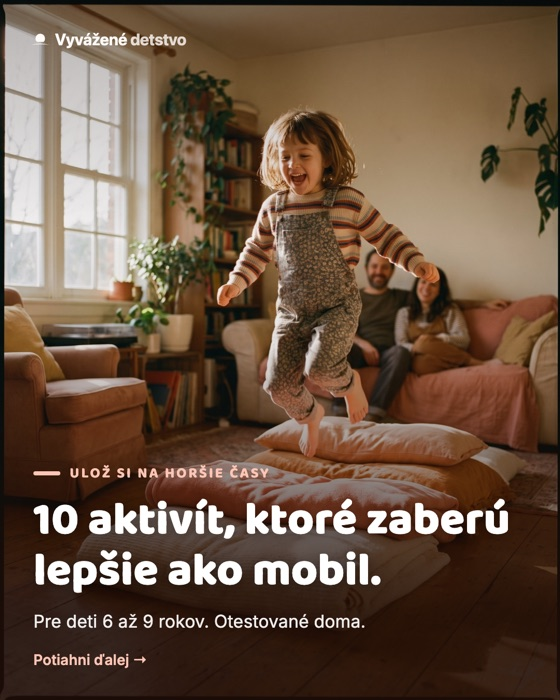
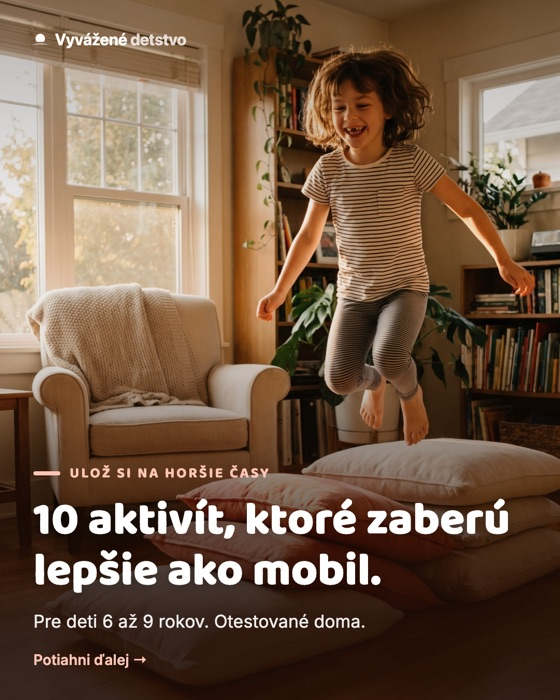
Fotky zladene s vekom dietata v texte: posty 5, 6, 15

diff --git a/index.html b/index.html
@@ -178,7 +178,7 @@ letter-spacing:.09em;color:var(--coral);margin-bottom:8px;}
       <div class="chips"><span class="chip" style="background:#4CAF7C">OBJAVOVANIE</span><span class="chip chip-cta">CTA: Ulož si</span></div>
     </div>
   </div>
-  <div class="cover-pozn">📷 Cover: AI foto, dieťa (7 r.) skáče cez vankúše v obývačke, smiech</div>
+  <div class="cover-pozn">📷 Cover: AI foto, dieťa (8 r.) skáče cez vankúše v obývačke, smiech</div>
   
   <div class="slides slides-img"><a href="zasobnik-assets/05-1.jpg" target="_blank"><img src="zasobnik-assets/05-1.jpg" loading="lazy" alt=""></a><a href="zasobnik-assets/05-2.jpg" target="_blank"><img src="zasobnik-assets/05-2.jpg" loading="lazy" alt=""></a><a href="zasobnik-assets/05-3.jpg" target="_blank"><img src="zasobnik-assets/05-3.jpg" loading="lazy" alt=""></a><a href="zasobnik-assets/05-4.jpg" target="_blank"><img src="zasobnik-assets/05-4.jpg" loading="lazy" alt=""></a><a href="zasobnik-assets/05-5.jpg" target="_blank"><img src="zasobnik-assets/05-5.jpg" loading="lazy" alt=""></a><a href="zasobnik-assets/05-6.jpg" target="_blank"><img src="zasobnik-assets/05-6.jpg" loading="lazy" alt=""></a></div>
   <div class="cap-grid">
@@ -194,7 +194,7 @@ letter-spacing:.09em;color:var(--coral);margin-bottom:8px;}
       <div class="chips"><span class="chip" style="background:#B5497A">VZŤAH/VÝCHOVA</span><span class="chip chip-cta">CTA: Pošli ďalej</span></div>
     </div>
   </div>
-  <div class="cover-pozn">📷 Cover: AI foto, dievča (10 r.) sedí na gauci s mobilom, unavený výraz, podvečer</div>
+  <div class="cover-pozn">📷 Cover: AI foto, dievča (10 r.) sedí sama na gauci s mobilom, taška na zemi, podvečer</div>
   
   <div class="slides slides-img"><a href="zasobnik-assets/06-1.jpg" target="_blank"><img src="zasobnik-assets/06-1.jpg" loading="lazy" alt=""></a><a href="zasobnik-assets/06-2.jpg" target="_blank"><img src="zasobnik-assets/06-2.jpg" loading="lazy" alt=""></a><a href="zasobnik-assets/06-3.jpg" target="_blank"><img src="zasobnik-assets/06-3.jpg" loading="lazy" alt=""></a><a href="zasobnik-assets/06-4.jpg" target="_blank"><img src="zasobnik-assets/06-4.jpg" loading="lazy" alt=""></a><a href="zasobnik-assets/06-5.jpg" target="_blank"><img src="zasobnik-assets/06-5.jpg" loading="lazy" alt=""></a><a href="zasobnik-assets/06-6.jpg" target="_blank"><img src="zasobnik-assets/06-6.jpg" loading="lazy" alt=""></a></div>
   <div class="cap-grid">
@@ -338,7 +338,7 @@ letter-spacing:.09em;color:var(--coral);margin-bottom:8px;}
       <div class="chips"><span class="chip" style="background:#4CAF7C">OBJAVOVANIE</span><span class="chip chip-cta">CTA: Ulož si</span></div>
     </div>
   </div>
-  <div class="cover-pozn">📷 Cover: AI foto, dieťa (12 r.) robí plank v obývačke, súrodenec meria čas</div>
+  <div class="cover-pozn">📷 Cover: AI foto, deti (11 a 12 r.) súťažia v planku, jeden meria čas</div>
   
   <div class="slides slides-img"><a href="zasobnik-assets/15-1.jpg" target="_blank"><img src="zasobnik-assets/15-1.jpg" loading="lazy" alt=""></a><a href="zasobnik-assets/15-2.jpg" target="_blank"><img src="zasobnik-assets/15-2.jpg" loading="lazy" alt=""></a><a href="zasobnik-assets/15-3.jpg" target="_blank"><img src="zasobnik-assets/15-3.jpg" loading="lazy" alt=""></a><a href="zasobnik-assets/15-4.jpg" target="_blank"><img src="zasobnik-assets/15-4.jpg" loading="lazy" alt=""></a><a href="zasobnik-assets/15-5.jpg" target="_blank"><img src="zasobnik-assets/15-5.jpg" loading="lazy" alt=""></a><a href="zasobnik-assets/15-6.jpg" target="_blank"><img src="zasobnik-assets/15-6.jpg" loading="lazy" alt=""></a></div>
   <div class="cap-grid">
